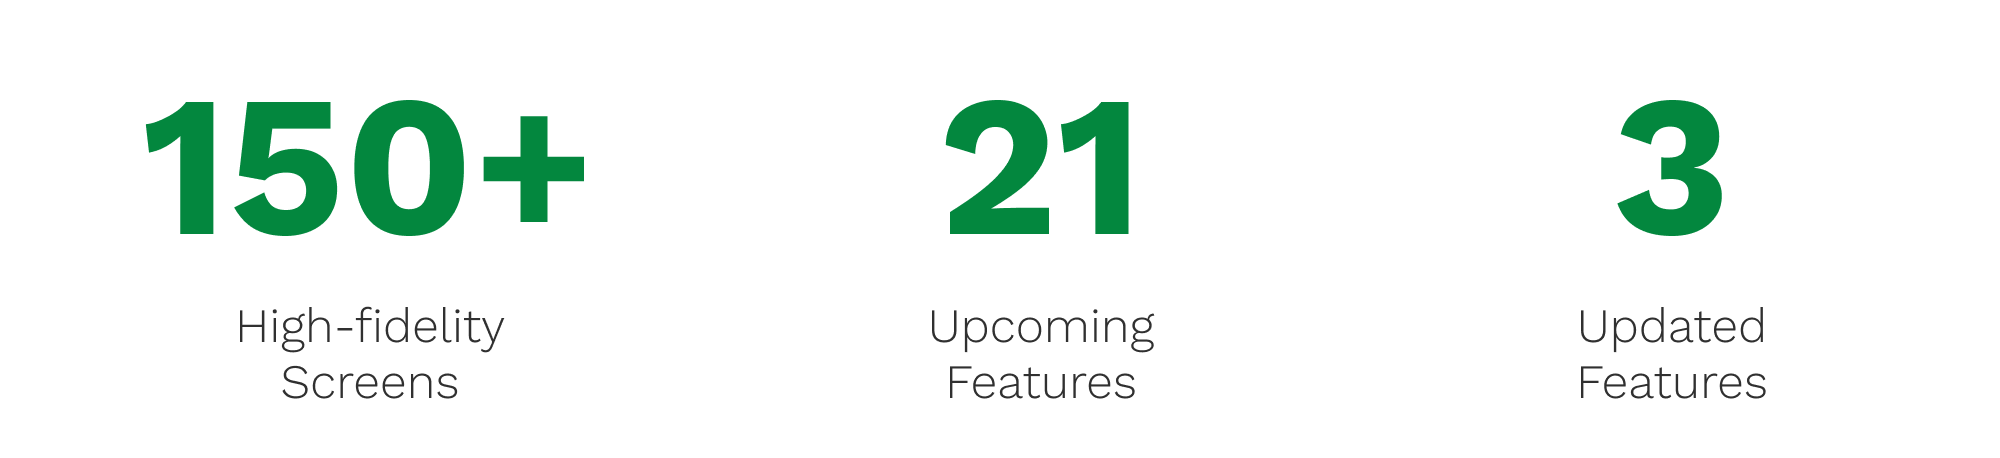
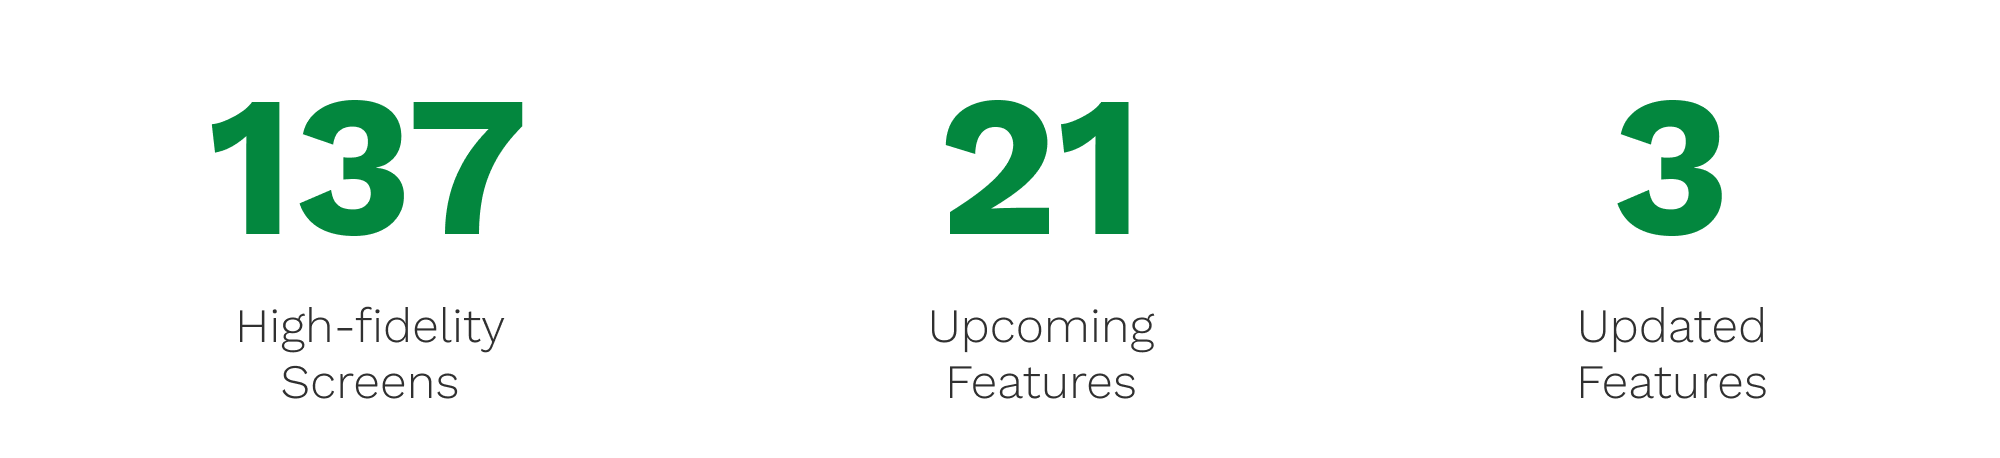
making numbers reflect resume part one

Changed region(s): [[0.062, 0.214, 0.31, 0.5197]]

diff --git a/westmonroe-energy.html b/westmonroe-energy.html
@@ -156,7 +156,7 @@
             <div class="sec" id="projectcontext">
                 <h2>Project Context</h2>
                 <h1>
-                    The client was a regional energy provider (28,000+ employees) who had experienced material tracking issues.
+                    The client was a regional energy provider (31K employees) who had experienced material tracking issues.
                 </h1>
                 <p>
                     The client had been dealing with a material tracking issue in their warehousing system and needed help keeping pace with demand. The client used word of mouth and emails rather than their inaccurate and poorly designed systems. 
@@ -170,7 +170,7 @@
                     Solution validation, meticulous research, personas, and mock-ups proved a material tracking tool would address the problem.
                 </h1>
                 <p>
-                    West Monroe has worked with the client since January 2023. From then to mid-June, the client and West Monroe proposed the solution of a material tracking and forecasting dashboard, targetting 30+ warehouse supervisors and other critical warehouse management roles.
+                    West Monroe has worked with the client since January 2023. From then to mid-June, the client and West Monroe proposed the solution of a material tracking and forecasting dashboard, targetting over 30 warehouse supervisors and other critical warehouse management roles.
                 </p>
                 <img src="./img/westmonroeenergy/previousphase.png" class="portImg">
             </div>
@@ -217,13 +217,13 @@
             <div class="sec" id="workshop">
                 <h2>Workshop</h2>
                 <h1>
-                    I supported my team in a 1-week user story mapping workshop at the client site that prioritized 70+ product functionalities.
+                    I supported my team in a 1-week user story mapping workshop at the client site that prioritized 78 product functionalities.
                 </h1>
                 <p>
                     The team conducted 2 user story mapping exercises with the client and 4 future users on Miro. Due to similarities between the 4 primary stakeholders, the workshop split into two sessions, each focused on 2 related personas. All features began in the backlog, and some moved into the MVP section after discussions.
                 </p>
                 <p>
-                    I designed 20+ Miro slides for the workshop. In addition to the user story mapping exercise, some boards facilitated icebreaker activities, while others collected participant thoughts. During the event, I synthesized findings, assisted participants with technical issues, and maintained detailed notes.
+                    I designed over 20 Miro slides for the workshop. In addition to the user story mapping exercise, some boards facilitated icebreaker activities, while others collected participant thoughts. During the event, I synthesized findings, assisted participants with technical issues, and maintained detailed notes.
                 </p>
                 <img src="./img/westmonroeenergy/storyMapOne.png" class="portImg spaceBelow">
                 <img src="./img/westmonroeenergy/storyMapTwo.png" class="portImg">
@@ -240,10 +240,10 @@
             <div class="sec">
                 <h2>Analogous Research + Lo-fi Wireframes</h2>
                 <h1>
-                    After I studied other customizable dashboards, I created 12+ lo-fi wireframes focusing on global navigation and widget control.
+                    After I studied other customizable dashboards, I created 16 lo-fi wireframes focusing on global navigation and widget control.
                 </h1>
                 <p>
-                    Following a team discussion to align on sprint goals, solution significance, and target audience, I designed 12+ wireframes. Throughout the sprints, I presented to the team in several feedback meetings where I outlined my analogous research applications and justified my design decisions.
+                    Following a team discussion to align on sprint goals, solution significance, and target audience, I designed 16 wireframes. Throughout the sprints, I presented to the team in several feedback meetings where I outlined my analogous research applications and justified my design decisions.
                 </p>
                 <img src="./img/westmonroeenergy/lofiwires.png" class="portImg">
             </div>

diff --git a/westmonroe-dental.html b/westmonroe-dental.html
@@ -156,7 +156,7 @@
             <div class="sec" id="projectcontext">
                 <h2>Project Context</h2>
                 <h1>
-                    A West Monroe team must display data visually for a dental service provider (5,000+ employees).
+                    A West Monroe team must display data visually for a dental service provider (10K employees).
                 </h1>
                 <p>
                     A machine learning, healthcare, data science, and technology consultant team has been working on a data model that processes claims more accurately for the client. They need to display their findings in a visually appealing way. 
@@ -220,7 +220,7 @@
                     My partner went on PTO, making me the sole designer in implementing and responding to team feedback.
                 </h1>
                 <p>
-                    Nearing the last week, I became the only designer in charge, and for the next 4 days, I adjusted and modified the current design as additional data came in. In the end, I had addressed 25+ critiques and recommendations from the team.
+                    Nearing the last week, I became the only designer in charge, and for the next 4 days, I adjusted and modified the current design as additional data came in. In the end, I had addressed 26 critiques and recommendations from the team.
                 </p>
                 <img src="./img/westmonroedental/substitute.png" class="portImg">
             </div>

diff --git a/amotions.html b/amotions.html
@@ -157,7 +157,7 @@
             </div>
             <div class="sec" id="whatisamotions">
                 <h2>About Amotions</h2>
-                <h1>A B2B platform with 15+ coaches helping 1000+ managers and team members learn soft skills.</h1>
+                <h1>A B2B and B2C platform with over 15 coaches helping 1K managers and team members learn soft skills.</h1>
                 <p>
                     Amotions wants to develop a dashboard where customers can learn skills, receive coaching, watch educational content, and track progress. They want to offer customers a personalized experience rather than a static GoDaddy website, which the company had before my arrival.
                 </p>
